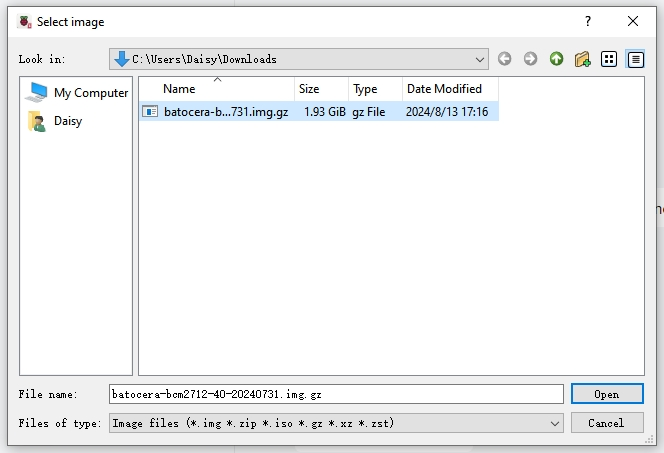
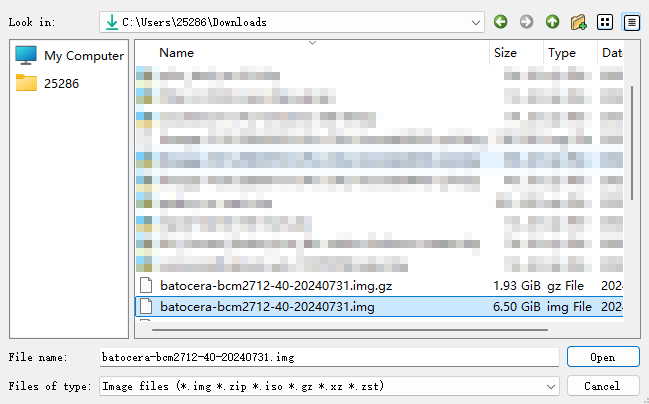
hide batoceralinux

diff --git a/docs/source/install/install_to_sd_batocera.rst b/docs/source/install/install_to_sd_batocera.rst
@@ -32,6 +32,7 @@ If you are using a Micro SD card, you can follow the tutorial below to install t
    .. image:: img/batocera_download.png
       :width: 90%
       
+#. Unzip the downloaded file ``batocera-xxx-xx-xxxxxxxx.img.gz``.
 
 #. Insert your SD card into your computer or laptop using a Reader.
 
@@ -46,7 +47,7 @@ If you are using a Micro SD card, you can follow the tutorial below to install t
       :width: 90%
       
 
-#. Choose the system file you have just downloaded, ``batocera-xxx-xx-xxxxxxxx.img.gz``, and then click **Open**.
+#. Choose the system file you have just unzipped, ``batocera-xxx-xx-xxxxxxxx.img``, and then click **Open**.
 
    .. image:: img/batocera_os_choose.png
       :width: 90%

diff --git a/docs/source/install/install_to_nvme_batocera.rst b/docs/source/install/install_to_nvme_batocera.rst
@@ -113,6 +113,8 @@ Now you can install the operating system on your NVMe SSD.
       :width: 90%
       
 
+#. Unzip the downloaded file ``batocera-xxx-xx-xxxxxxxx.img.gz``.
+
 #. Insert your SD card into your computer or laptop using a Reader.
 
 #. Within the |link_rpi_imager|, click on the **Operating System** tab.
@@ -126,7 +128,7 @@ Now you can install the operating system on your NVMe SSD.
       :width: 90%
       
 
-#. Choose the system file you have just downloaded, ``batocera-xxx-xx-xxxxxxxx.img.gz``, and then click **Open**.
+#. Choose the system file you have just unzipped, ``batocera-xxx-xx-xxxxxxxx.img``, and then click **Open**.
 
    .. image:: img/batocera_os_choose.png
       :width: 90%

diff --git a/docs/source/install/install_the_os.rst b/docs/source/install/install_the_os.rst
@@ -29,5 +29,6 @@ In this chapter, you will learn how to install the operating systems. All the in
 
         install_raspberry_os
         install_the_other_os
-        install_batocera
+        
+.. install_batocera
 
